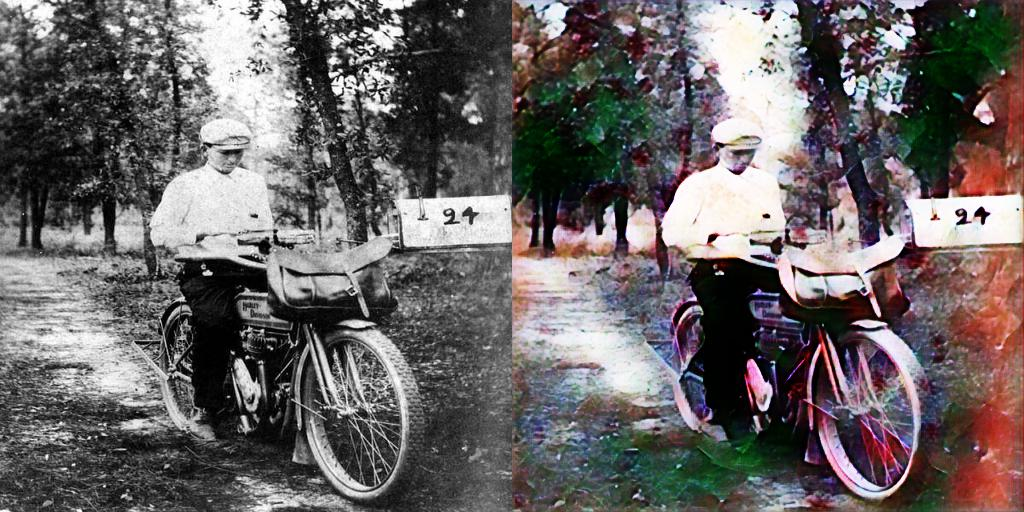
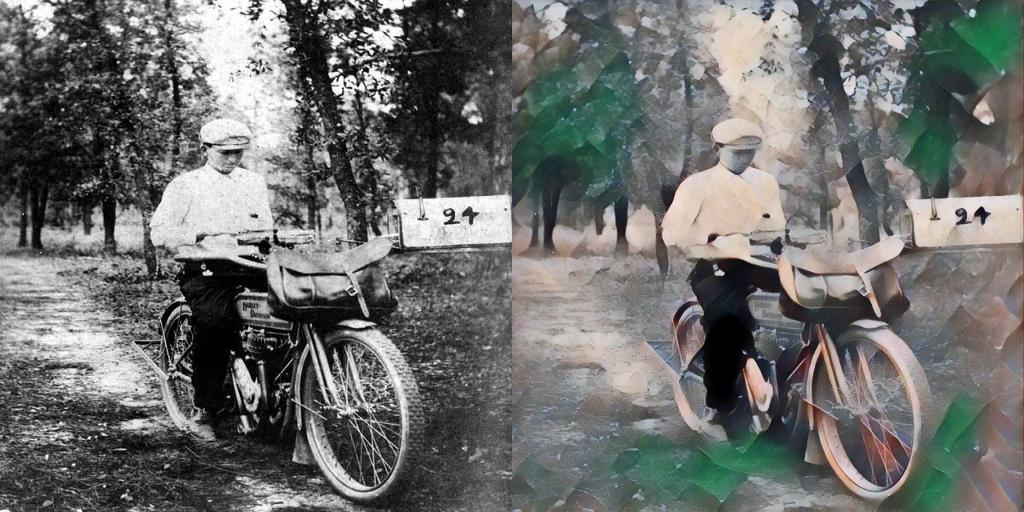
Update exp_4.
https://cs.stanford.edu/people/jcjohns/papers/fast-style/fast-style-supp.pdf
http://torch.ch/blog/2016/02/04/resnets.html

diff --git a/code_chap_4_student/exp_4_2_fast_style_transfer_infer_student/stu_upload/evaluate_cnnl_mfus.py b/code_chap_4_student/exp_4_2_fast_style_transfer_infer_student/stu_upload/evaluate_cnnl_mfus.py
@@ -57,7 +57,7 @@ class ResBlock(nn.Module):
 
     def forward(self, x):
         # TODO: 返回残差运算的结果
-        return x + self.layer(x)
+        return nn.functional.relu(x + self.layer(x)) # Note: According to the experimental document, ReLU needs to be added here
 
 
 class TransNet(nn.Module):

diff --git a/code_chap_4_student/exp_4_2_fast_style_transfer_infer_student/stu_upload/evaluate_cpu.py b/code_chap_4_student/exp_4_2_fast_style_transfer_infer_student/stu_upload/evaluate_cpu.py
@@ -56,7 +56,7 @@ class ResBlock(nn.Module):
 
     def forward(self, x):
         # TODO: 返回残差运算的结果
-        return x + self.layer(x)
+        return nn.functional.relu(x + self.layer(x)) # Note: According to the experimental document, ReLU needs to be added here
 
 
 class TransNet(nn.Module):

diff --git a/code_chap_4_student/exp_4_3_fast_style_transfer_infer_student/stu_upload/train-mlu.py b/code_chap_4_student/exp_4_3_fast_style_transfer_infer_student/stu_upload/train-mlu.py
@@ -77,7 +77,7 @@ class ResBlock(nn.Module):
 
     def forward(self, x):
         # TODO: 返回残差运算的结果
-        return x + self.layer(x)
+        return x + self.layer(x) # Note: no ReLu after the addition, seems to have better results
 
 
 class TransNet(nn.Module):

diff --git a/code_chap_4_student/exp_4_3_fast_style_transfer_infer_student/stu_upload/train.py b/code_chap_4_student/exp_4_3_fast_style_transfer_infer_student/stu_upload/train.py
@@ -79,7 +79,7 @@ class ResBlock(nn.Module):
 
     def forward(self, x):
         # TODO: 返回残差运算的结果
-        return x + self.layer(x)
+        return x + self.layer(x) # Note: no ReLu after the addition, seems to have better results
 
 
 class TransNet(nn.Module):
